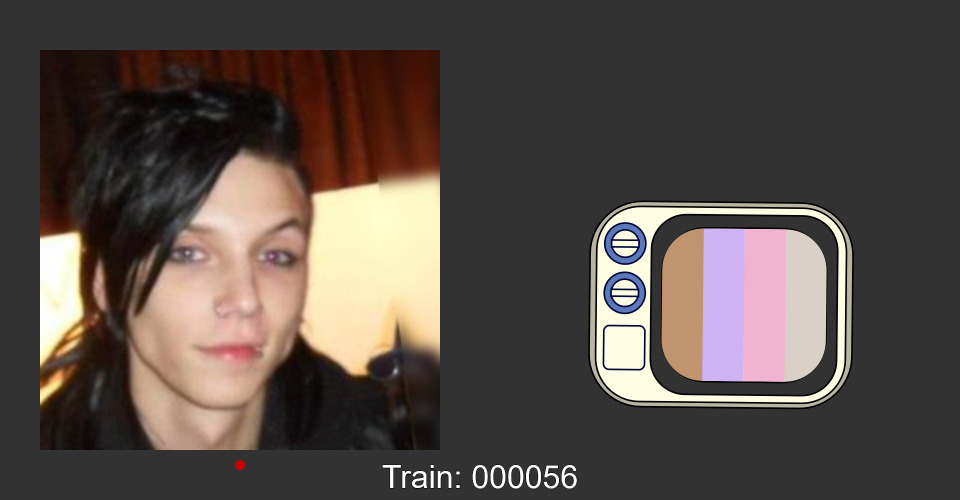
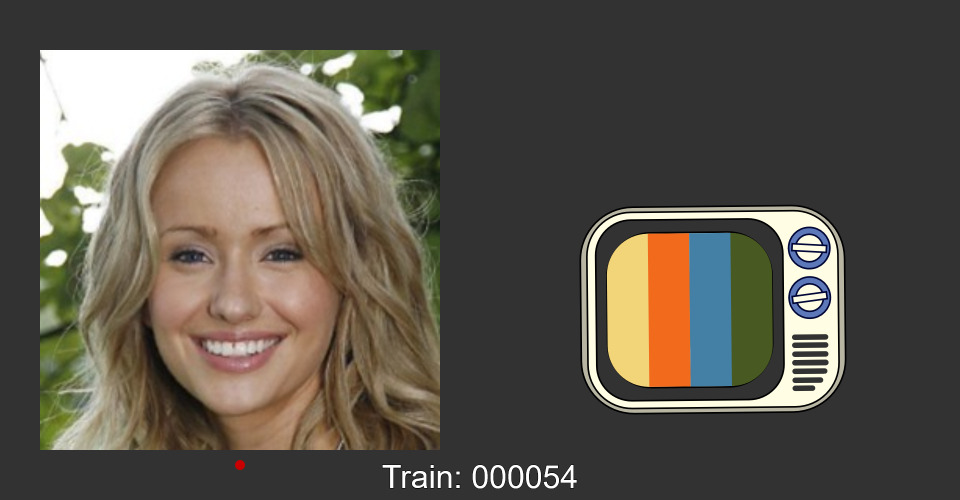
knobs & speaker adjust

diff --git a/face.js b/face.js
@@ -7,7 +7,7 @@
 var DEBUG_MODE = true;
 
 // this can be used to set the number of sliders to show
-var NUM_SLIDERS = 3;
+var NUM_SLIDERS = 6;
 
 // other variables can be in here too
 // here's some examples for colors used
@@ -35,8 +35,9 @@ function Face() {
   this.detailColour = [93, 120, 185];
   this.mainColour = [255, 253, 227];
   this.num_eyes = 2;    // can be either 1 (cyclops) or 2 (two eyes)
-  this.eye_shift = -1;   // range is -10 to 10
-  this.mouth_size = 1;  // range is 0.5 to 8
+  this.knobRot_up = 90;   // Rotation of upper knob, range is 0 to 180
+  this.knobRot_down = 90;   // Rotation of lower knob, range is 0 to 180
+  this.speaker_size = 27;  // Speaker lines' number (size), range is 17 to 57
 
   this.chinColour = [153, 153, 51];
   this.lipColour = [136, 68, 68];
@@ -77,10 +78,10 @@ function Face() {
     this.topRightCorner_Y = this.headPosY - this.headHeight*1.25 /2 + this.roundCorner * 2;
     this.bottomLeftCorner_X = this.headPosX - this.headWidth / 2 + this.roundCorner * 2;
     this.bottomLeftCorner_Y = this.headPosY + this.headHeight*1.25 /2 - this.roundCorner * 2;
-    this.bottomRightCorner_X = this.headPosX + this.headWidth / 2 - this.roundCorner * 2;
-    this.bottomRightCorner_Y = this.headPosY + this.headHeight*1.25 /2 - this.roundCorner * 2;
+    this.speakerPos_X;
+    this.speakerPos_Y = this.headPosY + (this.headHeight * 1.25 * 1.14) / 2 - this.roundCorner * 1;
     
-    // head
+    // TV/Monitor main shape and screen
     
     ellipseMode(CENTER);
     angleMode(DEGREES);
@@ -103,6 +104,7 @@ function Face() {
     if(this.headSize_L < this.headSize_R){
       this.headOffset = -this.headWidth;
       this.knobPos_X = this.headPosX - this.headOffset*0.44;
+      this.speakerPos_X = this.headPosX + (this.headWidth *1.14) / 2 - this.roundCorner * 1;
 
       this.leftColorBar = 0; // Screen color bar from light to dark when screen on the left side
       this.leftMidColorBar = 1;
@@ -112,6 +114,7 @@ function Face() {
     else if(this.headSize_L > this.headSize_R){
       this.headOffset = this.headWidth;
       this.knobPos_X = this.headPosX - this.headOffset*0.44;
+      this.speakerPos_X = this.headPosX - (this.headWidth *1.14) / 2 + this.roundCorner * 1;
 
       this.leftColorBar = 3; // Screen color bar from dark to light when screen on the right side
       this.leftMidColorBar = 2;
@@ -168,7 +171,7 @@ function Face() {
     // ellipse(this.topLeftCorner_X,this.topLeftCorner_Y,this.roundCorner*4);
     // ellipse(this.topRightCorner_X,this.topRightCorner_Y,this.roundCorner*4);
     // ellipse(this.bottomLeftCorner_X,this.bottomLeftCorner_Y,this.roundCorner*4);
-    // ellipse(this.bottomRightCorner_X,this.bottomRightCorner_Y,this.roundCorner*4);
+    // ellipse(this.speakerPos_X,this.speakerPos_Y,this.roundCorner*4);
     pop();
 
     // push();
@@ -188,7 +191,7 @@ function Face() {
     //       this.topRightCorner_X+cos(i)*this.roundCorner * 2, this.topRightCorner_Y-sin(i)*this.roundCorner * 2);
      
     // line(this.bottomLeftCorner_X-cos(i)*this.roundCorner * 2, this.bottomLeftCorner_Y+sin(i)*this.roundCorner * 2,
-    //       this.bottomRightCorner_X+cos(i)*this.roundCorner * 2, this.bottomRightCorner_Y+sin(i)*this.roundCorner * 2);
+    //       this.speakerPos_X+cos(i)*this.roundCorner * 2, this.speakerPos_Y+sin(i)*this.roundCorner * 2);
     // }
     
     // for(i=5.5;i<=12;i+=6){
@@ -196,7 +199,7 @@ function Face() {
     //       this.topRightCorner_X+cos(i)*this.roundCorner * 2, this.topRightCorner_Y+sin(i)*this.roundCorner * 2);
      
     // line(this.bottomLeftCorner_X-cos(i)*this.roundCorner * 2, this.bottomLeftCorner_Y-sin(i)*this.roundCorner * 2,
-    //       this.bottomRightCorner_X+cos(i)*this.roundCorner * 2, this.bottomRightCorner_Y-sin(i)*this.roundCorner * 2);
+    //       this.speakerPos_X+cos(i)*this.roundCorner * 2, this.speakerPos_Y-sin(i)*this.roundCorner * 2);
     // }
     // pop();
 
@@ -204,16 +207,38 @@ function Face() {
 
     ///////////////////////////////////////////////////////////////
 
-    // mouth
-    // push();
-    // stroke(0, 7, 56, 100);
-    // noFill();
-    // point(positions.top_lip[4][0], positions.top_lip[4][1]);
-    // triangle(positions.top_lip[4][0], positions.top_lip[4][1], 
-    //   positions.bottom_lip[0][0], positions.bottom_lip[0][1]+this.mouth_size*0.1, 
-    //   positions.bottom_lip[6][0], positions.bottom_lip[6][1]+this.mouth_size*0.1);
+    // Draw speaker (mouth)
+    push();
+    stroke(50,50,50);
+    noFill();
+    strokeWeight(0.1);
+    // rect(this.knobPos_X, this.knobPos_Y_down+1, this.headHeight*0.3, this.headWidth*0.2, 0.1);
+    // rect(this.headPosX, this.headPosY, this.headWidth*1.14, this.headHeight*1.25*1.14, this.roundCorner);
+    // line(this.knobPos_X - 0.3, this.knobPos_Y_down + 0.8, this.knobPos_X + 0.3, this.knobPos_Y_down + 0.8);
+    // line(this.knobPos_X - 0.3, this.knobPos_Y_down + 1, this.knobPos_X + 0.3, this.knobPos_Y_down + 1);
     
-    // pop();
+    // line(this.knobPos_X - 0.3, this.knobPos_Y_down + 1.2, this.knobPos_X + 0.3, this.knobPos_Y_down + 1.2);
+    // ellipse(this.speakerPos_X, this.speakerPos_Y, this.roundCorner * 2);
+    // stroke('red');
+    if(this.headSize_L < this.headSize_R){
+       this.speakerPos_X = this.headPosX + (this.headWidth *1.14) / 2 - this.roundCorner * 1;
+       for(i=0;i<this.speaker_size;i=i*1.15+16.1){
+        line(this.speakerPos_X, this.speakerPos_Y + sin(i)*this.roundCorner * 0.7, 
+          this.speakerPos_X + cos(i)*this.roundCorner * 0.7, this.speakerPos_Y + sin(i)*this.roundCorner * 0.7);
+          line(this.speakerPos_X, this.speakerPos_Y - sin(i)*this.roundCorner * 0.7,
+          this.speakerPos_X + cos(0)*this.roundCorner * 0.7, this.speakerPos_Y - sin(i)*this.roundCorner * 0.7);
+      }
+    }
+    else if(this.headSize_L > this.headSize_R){      
+      this.speakerPos_X = this.headPosX - (this.headWidth *1.14) / 2 + this.roundCorner * 1;
+      for(i=0;i<this.speaker_size;i=i*1.15+16.1){
+        line(this.speakerPos_X, this.speakerPos_Y + sin(i)*this.roundCorner * 0.7, 
+          this.speakerPos_X - cos(i)*this.roundCorner * 0.7, this.speakerPos_Y + sin(i)*this.roundCorner * 0.7);
+          line(this.speakerPos_X, this.speakerPos_Y - sin(i)*this.roundCorner * 0.7,
+          this.speakerPos_X - cos(0)*this.roundCorner * 0.7, this.speakerPos_Y - sin(i)*this.roundCorner * 0.7);
+      }
+    } 
+    pop();
 
     ///////////////////////////////////////////////////////////////
 
@@ -262,7 +287,7 @@ function Face() {
 
     noFill();
     stroke(0, 7, 56);
-    // let curEyeShift = 0.04 * this.eye_shift;
+    // let curEyeShift = 0.04 * this.knobRot_up;
     if(this.num_eyes == 2) {
       fill(this.detailColour);
       ellipse(this.knobPos_X, this.knobPos_Y_up, this.headHeight*0.3);
@@ -273,17 +298,15 @@ function Face() {
 
       push();
       translate(this.knobPos_X, this.knobPos_Y_up);
-      rotate(90);
+      rotate(this.knobRot_up);
       rect(0, 0, this.headHeight*0.25, this.headHeight*0.05);
       pop();
       push();
       translate(this.knobPos_X, this.knobPos_Y_down);
-      rotate(30);
+      rotate(this.knobRot_down);
       rect(0, 0, this.headHeight*0.25, this.headHeight*0.05);
       pop();
-
-      rect(this.knobPos_X, this.knobPos_Y_down+1, this.headHeight*0.3, this.headWidth*0.2, 0.1);
-
+      
       // Eye lids
       // fill(0);
       // arc(left_eye_pos[0]+0.1, positions.nose_bridge[2][1], this.headHeight*0.5, this.headHeight*0.5, 180, 360, CHORD);
@@ -345,16 +368,18 @@ function Face() {
   /* set internal properties based on list numbers 0-100 */
   this.setProperties = function(settings) {
     this.colorSwitch = int(map(settings[0], 0, 100, 0, 2));
-    this.eye_shift = map(settings[1], 0, 100, -2, 2);
-    this.mouth_size = map(settings[2], 0, 100, 0.5, 8);
+    this.knobRot_up = map(settings[1], 0, 100, 0, 180);
+    this.knobRot_down = map(settings[2], 0, 100, 0, 180);
+    this.speaker_size = map(settings[3], 0, 100, 16, 57);
   }
 
   /* get internal properties as list of numbers 0-100 */
   this.getProperties = function() {
     let settings = new Array(3);
     settings[0] = map(this.colorOption, 0, 2, 0, 100);
-    settings[1] = map(this.eye_shift, -2, 2, 0, 100);
-    settings[2] = map(this.mouth_size, 0.5, 8, 0, 100);
+    settings[1] = map(this.knobRot_up, 0, 180, 0, 100);
+    settings[2] = map(this.knobRot_down, 0, 180, 0, 100);
+    settings[3] = map(this.speaker_size, 16, 57, 0, 100);
 
     return settings;
   }

diff --git a/index.html b/index.html
@@ -48,27 +48,27 @@
         <div class="inner" id="controls" height="500">
             <table>
                 <tr>
-                    <td>Face Color</td>
+                    <td>Screen color</td>
                     <td id="slider1Container"></td>
                 </tr>
                 <tr>
-                    <td>setting 2</td>
+                    <td>Knob 1 rotation</td>
                     <td id="slider2Container"></td>
                 </tr>
                 <tr>
-                    <td>setting 3</td>
+                    <td>Knob 2 rotation</td>
                     <td id="slider3Container"></td>
                 </tr>
                 <tr>
-                    <td>setting 4</td>
+                    <td>Speaker size</td>
                     <td id="slider4Container"></td>
                 </tr>
                 <tr>
-                    <td>setting 5</td>
+                    <td>Antenna angle</td>
                     <td id="slider5Container"></td>
                 </tr>
                 <tr>
-                    <td>setting 6</td>
+                    <td>Antenna length</td>
                     <td id="slider6Container"></td>
                 </tr>
                 <tr>

diff --git a/README.md b/README.md
@@ -2,5 +2,5 @@
 [![Open in Visual Studio Code](https://classroom.github.com/assets/open-in-vscode-718a45dd9cf7e7f842a935f5ebbe5719a5e09af4491e668f4dbf3b35d5cca122.svg)](https://classroom.github.com/online_ide?assignment_repo_id=11103452&assignment_repo_type=AssignmentRepo)
 ## 2023 MDDN342 Assignment 3: Data Mappings
 
-Knobs are parameterized with the head.
-Three color-group options added and the color bars' order will follow the facing direction (left or right). 
+The two knobs can rotate separately representing eyebrows.
+Speaker size refers to mouth size. The curved shape around the corner is copied from previous 'screen lines' code. The size (number of lines) can be changed with slider.
